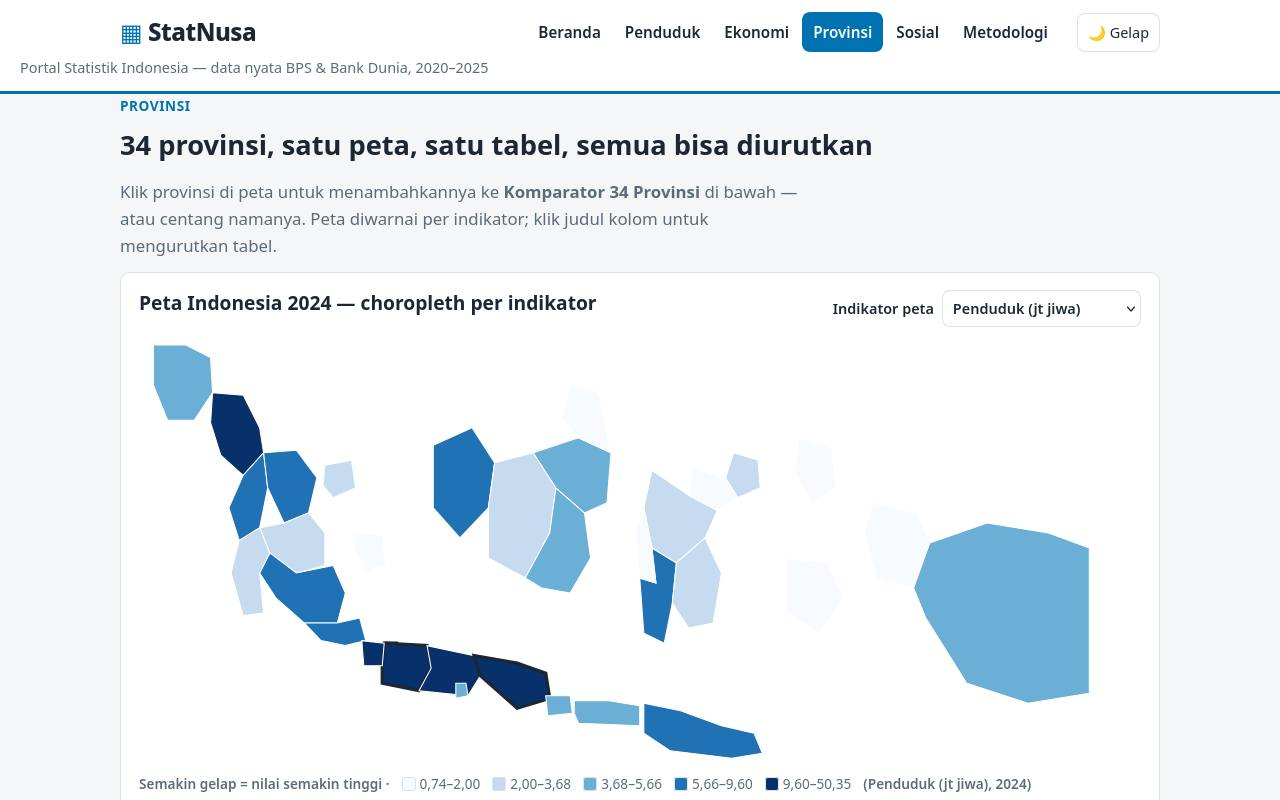
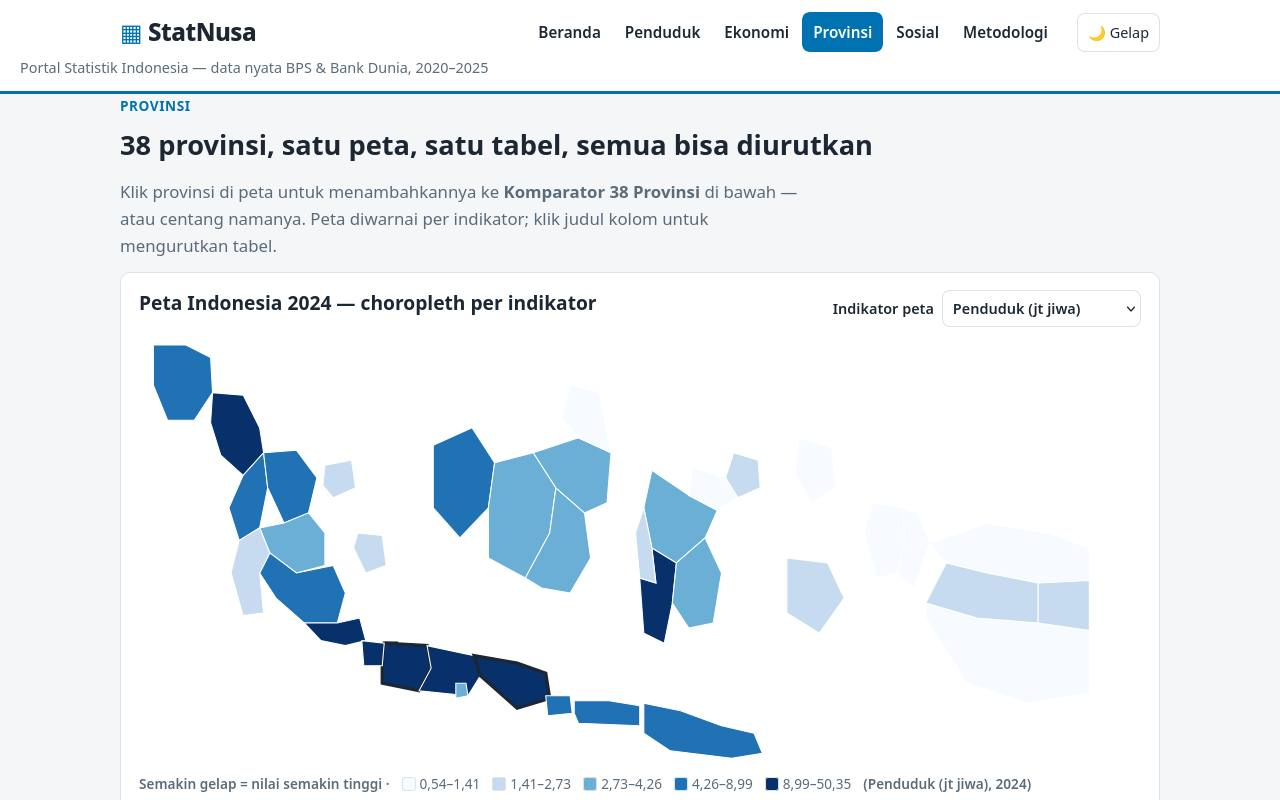
Entry

diff --git a/app/views.js b/app/views.js
@@ -81,7 +81,7 @@ window.StatViews = (function () {
     var surplus = D.trade[4].export - D.trade[4].import;
     return sectionHead("Portal Statistik Indonesia · Data BPS & Bank Dunia",
       "Indonesia dalam angka, 2020–2025",
-      "Satu portal untuk membaca Indonesia: <strong>" + fmt(NAT_POP_2024, 1) + " juta penduduk (BPS 2024)</strong> di <strong>34 provinsi</strong>, " +
+      "Satu portal untuk membaca Indonesia: <strong>" + fmt(NAT_POP_2024, 1) + " juta penduduk (BPS 2024)</strong> di <strong>38 provinsi</strong>, " +
       "ekonomi <strong>Rp22.139 triliun</strong>, dan <strong>6 tahun tren</strong> yang bisa dibandingkan — semua angka " +
       "disertai sumber dan tahunnya.") +
       kpiCards() +
@@ -92,11 +92,11 @@ window.StatViews = (function () {
       '<li><strong>' + fmt(jv.share, 1) + '% penduduk</strong> tinggal di Pulau Jawa — Jawa Barat sendiri ' + fmt(jb.jabar, 2) + ' juta jiwa (' + fmt(jb.share, 1) + '% nasional), lebih besar dari gabungan ' + jb.n + ' provinsi terkecil (' + fmt(jb.sum, 2) + ' jt). ' + srcTag("BPS 2024") + '</li>' +
       '<li><strong>Kemiskinan turun ' + fmt(povDrop, 2) + ' poin</strong> dalam empat tahun: dari ' + fmt(D.national.poverty[0], 2) + '% (Mar 2020) ke ' + fmt(D.national.poverty[4], 2) + '% (Mar 2024), lalu ' + fmt(D.national.poverty[5], 2) + '% (Mar 2025). ' + srcTag("BPS 2025") + '</li>' +
       '<li><strong>Surplus dagang 5 tahun beruntun:</strong> ekspor 2024 US$' + fmt(D.trade[4].export, 1) + ' miliar lawan impor US$' + fmt(D.trade[4].import, 1) + ' miliar (surplus US$' + fmt(surplus, 1) + ' miliar). ' + srcTag("BPS 2024") + '</li>' +
-      '</ol><p><a class="btn" href="#/provinsi">Bandingkan 34 provinsi →</a> <a class="btn ghost" href="#/ekonomi">Lihat ekonomi →</a></p></section>' +
+      '</ol><p><a class="btn" href="#/provinsi">Bandingkan 38 provinsi →</a> <a class="btn ghost" href="#/ekonomi">Lihat ekonomi →</a></p></section>' +
       '<section class="card"><h2>Jelajahi berdasarkan topik</h2><div class="topic-grid">' +
       '<a class="topic" href="#/penduduk"><strong>Penduduk &amp; Demografi</strong><span>Piramida penduduk 2024 + 10 provinsi terbesar</span></a>' +
       '<a class="topic" href="#/ekonomi"><strong>Ekonomi</strong><span>PDB per sektor, kuartal, ekspor-impor</span></a>' +
-      '<a class="topic" href="#/provinsi"><strong>Provinsi</strong><span>Tabel 34 provinsi + Komparator</span></a>' +
+      '<a class="topic" href="#/provinsi"><strong>Provinsi</strong><span>Tabel 38 provinsi + Komparator</span></a>' +
       '<a class="topic" href="#/sosial"><strong>Sosial</strong><span>Kemiskinan, pengangguran, IPM, pendidikan</span></a>' +
       '<a class="topic" href="#/metodologi"><strong>Metodologi &amp; Sumber</strong><span>Definisi, sumber, unduh CSV</span></a>' +
       '</div></section>';
@@ -184,8 +184,15 @@ window.StatViews = (function () {
       return '<tr><td>' + esc(ind2.label) + '</td>' + cells + '<td class="num">' + fmt(nat[ind2.key], ind2.decimals) + '</td></tr>';
     }).join("");
     var delta = selected.map(function (p) {
-      return '<tr><td>' + esc(p.name) + '</td><td class="num">' + fmt(p.pov2020, 2) + '</td><td class="num">' + fmt(p.pov, 2) + '</td><td class="num">' + fmt(p.pov - p.pov2020, 2) + '</td></tr>';
+      var v2020 = p.pov2020 == null ? "n/a" : fmt(p.pov2020, 2);
+      var chg = p.pov2020 == null ? "n/a" : fmt(p.pov - p.pov2020, 2);
+      return '<tr><td>' + esc(p.name) + '</td><td class="num">' + v2020 + '</td><td class="num">' + fmt(p.pov, 2) + '</td><td class="num">' + chg + '</td></tr>';
     }).join("");
+    var withHist = selected.filter(function (p) { return p.pov2020 != null; });
+    var deltaNote = withHist.length === selected.length
+      ? "Semua provinsi yang dipilih menurunkan kemiskinan sejak 2020 kecuali yang perubahannya positif. "
+      : "Provinsi hasil pemekaran 2022 (Papua, Papua Barat, Papua Selatan, Papua Tengah, Papua Pegunungan, Papua Barat Daya) tidak memiliki angka kemiskinan 2020 pada batas wilayah baru — ditampilkan n/a (belum diterbitkan BPS). " +
+        (withHist.length ? "Provinsi lain yang dipilih menurunkan kemiskinan sejak 2020 kecuali yang perubahannya positif. " : "");
     var chartItems = selected.map(function (p, i) { return { label: p.name, value: p[metric] }; });
     return '<table class="tbl"><thead>' + head + '</thead><tbody>' + body + '</tbody></table>' +
       '<p class="note">★ = nilai <strong>terbaik</strong> per indikator di antara provinsi yang dipilih — tertinggi untuk penduduk, PDRB per kapita, dan IPM; terendah untuk kemiskinan, pengangguran, dan inflasi. Kolom Nasional: PDB per kapita Rp78,6 jt; inflasi nasional 1,57%. ' + srcTag("BPS 2024") + '</p>' +
@@ -193,7 +200,7 @@ window.StatViews = (function () {
       C.hbarChart(chartItems, { decimals: ind.decimals, labelW: 170 }) +
       '<h3>Tren kemiskinan 2020 → 2024 (poin %)</h3>' +
       '<table class="tbl"><thead><tr><th>Provinsi</th><th class="num">2020</th><th class="num">2024</th><th class="num">Perubahan</th></tr></thead><tbody>' + delta + '</tbody></table>' +
-      '<p class="note">Semua provinsi yang dipilih menurunkan kemiskinan sejak 2020 kecuali yang perubahannya positif. ' + srcTag("BPS 2020 & 2024") + '</p>';
+      '<p class="note">' + deltaNote + srcTag("BPS 2020 & 2024") + '</p>';
   }
   function provinsi(state) {
     var q = (state.q || "").toLowerCase();
@@ -213,21 +220,21 @@ window.StatViews = (function () {
     var mapOpts = INDICATORS.map(function (ind) {
       return '<option value="' + ind.key + '"' + (ind.key === state.mapMetric ? ' selected' : '') + '>' + esc(ind.label) + '</option>';
     }).join("");
-    return sectionHead("Provinsi", "34 provinsi, satu peta, satu tabel, semua bisa diurutkan",
-      "Klik provinsi di peta untuk menambahkannya ke <strong>Komparator 34 Provinsi</strong> di bawah — " +
+    return sectionHead("Provinsi", "38 provinsi, satu peta, satu tabel, semua bisa diurutkan",
+      "Klik provinsi di peta untuk menambahkannya ke <strong>Komparator 38 Provinsi</strong> di bawah — " +
       "atau centang namanya. Peta diwarnai per indikator; klik judul kolom untuk mengurutkan tabel.") +
       '<section class="card" id="peta"><div class="card-head"><h2>Peta Indonesia 2024 — choropleth per indikator</h2>' +
       '<label class="map-ctl">Indikator peta <select id="map-metric">' + mapOpts + '</select></label></div>' +
       '<div id="map-wrap">' + window.StatMap.choropleth(state.mapMetric, state.selected) + '</div>' +
       '<p class="note">Klik provinsi di peta untuk menambah / menghapusnya dari Komparator (maks 4). Provinsi terpilih digaris tebal. ' + srcTag("BPS 2024") + '</p></section>' +
-      '<section class="card"><div class="card-head"><h2>Tabel 34 provinsi (2024)</h2>' +
+      '<section class="card"><div class="card-head"><h2>Tabel 38 provinsi (2024)</h2>' +
       '<label class="search">Cari provinsi <input id="prov-search" type="search" placeholder="mis. Jawa, Papua, Bali…" value="' + esc(state.q || "") + '" aria-label="Cari provinsi"></label></div>' +
       '<div class="tbl-wrap"><table class="tbl sortable"><thead><tr>' +
       th("name", "Provinsi") + th("pop", "Penduduk (jt)", "num") + th("pdrb", "PDRB/kapita (Rp jt)", "num") +
       th("pov", "Miskin (%)", "num") + th("unemp", "TPT (%)", "num") + th("ipm", "IPM", "num") + th("infl", "Inflasi (%)", "num") +
       '</tr></thead><tbody id="prov-body">' + provRows(list, state.sortKey, state.dir) + '</tbody></table></div>' +
-      '<p class="note" id="prov-count">' + list.length + ' dari 34 provinsi ditampilkan. Jumlah 34 provinsi di data: ' + fmt(provPopTotal(), 2) + ' jt; total nasional BPS 2024: ' + fmt(NAT_POP_2024, 1) + ' jt (selisih akibat pembulatan &amp; metode estimasi). ' + srcTag("BPS 2024") + '</p></section>' +
-      '<section class="card" id="komparator"><h2>Komparator 34 Provinsi</h2>' +
+      '<p class="note" id="prov-count">' + list.length + ' dari 38 provinsi ditampilkan. Jumlah 38 provinsi di data: ' + fmt(provPopTotal(), 2) + ' jt; total nasional BPS 2024: ' + fmt(NAT_POP_2024, 1) + ' jt (selisih akibat pembulatan &amp; metode estimasi). ' + srcTag("BPS 2024") + '</p></section>' +
+      '<section class="card" id="komparator"><h2>Komparator 38 Provinsi</h2>' +
       '<p>Sistem unik StatNusa: pilih 2–4 provinsi, bandingkan <strong>6 indikator sekaligus</strong> — penduduk, PDRB per kapita, kemiskinan, pengangguran, IPM, inflasi — plus tren kemiskinan 2020–2024.</p>' +
       '<div class="check-grid">' + checks + '</div>' +
       '<p class="comp-controls"><label>Indikator grafik <select id="comp-metric">' + opts + '</select></label> ' +
@@ -298,15 +305,16 @@ window.StatViews = (function () {
       '<dt>Kemiskinan</dt><dd>Penduduk dengan pengeluaran per kapita di bawah garis kemiskinan, diukur tiap Maret &amp; September.</dd>' +
       '<dt>IPM</dt><dd>Indeks Pembangunan Manusia (0–100): kesehatan, pendidikan, dan standar hidup layak.</dd>' +
       '<dt>PDRB per kapita</dt><dd>PDRB harga berlaku provinsi dibagi jumlah penduduknya, juta rupiah.</dd>' +
-      '<dt>Struktur provinsi</dt><dd>Tabel memakai 34 provinsi seperti publikasi BPS 2024; pemekaran Papua terbaru belum dipisah agar deret 2020–2024 sebanding.</dd>' +
+      '<dt>Struktur provinsi</dt><dd>Tabel memakai 38 provinsi hasil pemekaran Papua 2022 (UU No. 14–16/2022 tentang Papua Selatan, Papua Tengah, Papua Pegunungan; UU No. 29/2022 tentang Papua Barat Daya). Keenam provinsi Papua memakai angka BPS 2024 pada batas wilayah baru; kemiskinan 2020 tidak diterbitkan BPS untuk batas baru itu (n/a di Komparator).</dd>' +
       '</dl></section>' +
       '<section class="card"><h2>Unduh data (CSV)</h2><p>Semua angka di situs ini tersedia sebagai berkas lokal — tanpa akun, tanpa jaringan.</p><ul class="downloads">' +
       '<li><a href="data/nasional.csv" download>nasional.csv</a> — tren nasional 2020–2025 (penduduk, PDB, pertumbuhan, inflasi, TPT, kemiskinan, IPM)</li>' +
-      '<li><a href="data/provinsi.csv" download>provinsi.csv</a> — 34 provinsi × 6 indikator, 2024 + kemiskinan 2020</li>' +
+      '<li><a href="data/provinsi.csv" download>provinsi.csv</a> — 38 provinsi × 6 indikator, 2024 + kemiskinan 2020 (n/a untuk 6 provinsi Papua hasil pemekaran)</li>' +
       '<li><a href="data/ekonomi.csv" download>ekonomi.csv</a> — PDB per sektor 2024, pertumbuhan kuartalan, ekspor-impor 2020–2024</li>' +
       '</ul><p class="note">Berkas dibaca langsung dari folder situs; pengunduhan bekerja offline. ' + srcTag("BPS 2024–2025") + '</p></section>' +
       '<section class="card"><h2>Catatan &amp; batasan</h2><ul class="notes">' +
-      '<li>Angka provinsi dibulatkan ke 1–2 desimal dari publikasi BPS. Jumlah penduduk 34 provinsi di data ini: ' + fmt(provPopTotal(), 2) + ' jt, sedangkan total nasional BPS 2024: ' + fmt(NAT_POP_2024, 1) + ' jt — selisih ' + fmt(provPopTotal() - NAT_POP_2024, 2) + ' jt akibat pembulatan per provinsi dan perbedaan metode estimasi. Situs ini memakai ' + fmt(NAT_POP_2024, 1) + ' jt sebagai total nasional, dan ' + fmt(provPopTotal(), 2) + ' jt bila menjumlahkan tabel provinsi; keduanya diberi label yang berbeda supaya tidak tertukar.</li>' +
+      '<li>Angka provinsi dibulatkan ke 1–2 desimal dari publikasi BPS. Jumlah penduduk 38 provinsi di data ini: ' + fmt(provPopTotal(), 2) + ' jt, sedangkan total nasional BPS 2024: ' + fmt(NAT_POP_2024, 1) + ' jt — selisih ' + fmt(provPopTotal() - NAT_POP_2024, 2) + ' jt akibat pembulatan per provinsi dan perbedaan metode estimasi. Situs ini memakai ' + fmt(NAT_POP_2024, 1) + ' jt sebagai total nasional, dan ' + fmt(provPopTotal(), 2) + ' jt bila menjumlahkan tabel provinsi; keduanya diberi label yang berbeda supaya tidak tertukar.</li>' +
+      '<li>Enam provinsi Papua memakai angka BPS 2024 pada batas wilayah baru (penduduk proyeksi interim; PDRB per kapita 2024; kemiskinan Susenas Maret 2024; TPT Sakernas Agustus 2024; IPM BRS 15 November 2024; inflasi y-on-y BRS IHK 2 Januari 2025). Angka PDRB per kapita, IPM, dan inflasi 32 provinsi lainnya masih memakai vintage v1 (2023) dan belum dipanen ulang ke rilis BPS 2024 — lihat daftar sumber di atas untuk tahun tiap publikasi; pemanenan ulang 32 provinsi adalah pekerjaan lanjutan, bukan bagian v2b.</li>' +
       '<li>Angka 2025 untuk penduduk adalah proyeksi; seri PDB, inflasi, TPT, dan IPM berakhir 2024 karena publikasi 2025 belum lengkap saat situs disusun.</li>' +
       '<li>StatNusa adalah portal independen dan bukan situs resmi BPS; nama dan desainnya original.</li>' +
       '</ul></section>';

diff --git a/app/data.js b/app/data.js
@@ -2,6 +2,10 @@
    Sumber: Badan Pusat Statistik (BPS) dan Bank Dunia. Setiap angka memakai
    tahun rujukan sendiri; angka 2025 yang bertanda proyeksi berasal dari
    proyeksi penduduk BPS. Nilai provinsi dibulatkan dari publikasi BPS 2024.
+   38 provinsi: 4 provinsi pemekaran Papua (UU No. 14–16/2022) dan Papua
+   Barat Daya (UU No. 29/2022) memakai angka BPS 2024 pada batas wilayah
+   baru; kemiskinan 2020 (pov2020) tidak diterbitkan BPS untuk batas baru
+   itu, jadi bernilai null (ditampilkan "n/a" di Komparator).
    Semua angka tersimpan lokal — situs ini tidak memanggil jaringan. */
 window.STATNUSA = {
   meta: {
@@ -17,6 +21,12 @@ window.STATNUSA = {
     { name: "BPS — Keadaan Ketenagakerjaan Agustus 2024", year: 2024, url: "https://www.bps.go.id" },
     { name: "BPS — Indeks Pembangunan Manusia 2024", year: 2025, url: "https://www.bps.go.id" },
     { name: "BPS — Proyeksi Penduduk Indonesia 2020–2050", year: 2023, url: "https://www.bps.go.id" },
+    { name: "BPS — Statistik Indonesia 2025 (38 provinsi; proyeksi penduduk interim pertengahan 2024)", year: 2025, url: "https://www.bps.go.id" },
+    { name: "BPS — Indeks Pembangunan Manusia 2024 (BRS No. 85/11/Th. XXVII, 15 Nov 2024)", year: 2024, url: "https://www.bps.go.id" },
+    { name: "BPS — Data dan Informasi Kemiskinan Kabupaten/Kota 2024 (Susenas Maret 2024)", year: 2024, url: "https://www.bps.go.id" },
+    { name: "BPS — Perkembangan Indeks Harga Konsumen Desember 2024 (BRS No. 01/01/Th. XXVIII, 2 Jan 2025)", year: 2025, url: "https://www.bps.go.id" },
+    { name: "BPS — Keadaan Angkatan Kerja di Indonesia Agustus 2024 (TPT 38 provinsi)", year: 2024, url: "https://www.bps.go.id" },
+    { name: "BPS — [Seri 2010] PDRB Per Kapita (Ribu Rupiah), 2024", year: 2025, url: "https://www.bps.go.id" },
     { name: "Bank Dunia — World Development Indicators: Indonesia", year: 2025, url: "https://data.worldbank.org/country/indonesia" }
   ],
   years: [2020, 2021, 2022, 2023, 2024, 2025],
@@ -98,9 +108,15 @@ window.STATNUSA = {
     meanSchool: [8.72, 8.78, 8.89, 8.99, 9.08],
     expectedSchool: [12.98, 13.09, 13.10, 13.18, 13.34]
   },
-  /* 34 provinsi, struktur BPS 2024. pop = juta jiwa; pdrb = PDRB per kapita
-     juta rupiah; pov = kemiskinan % (Mar 2024); pov2020 = kemiskinan % (Mar 2020);
-     unemp = TPT % (Agu 2024); ipm = IPM 2024; infl = inflasi % (Des 2024). */
+  /* 38 provinsi, struktur BPS 2024 (pemekaran Papua 2022). pop = juta jiwa;
+     pdrb = PDRB per kapita juta rupiah; pov = kemiskinan % (Mar 2024);
+     pov2020 = kemiskinan % (Mar 2020) — null untuk 6 provinsi Papua karena
+     BPS tidak menerbitkan deret 2020 pada batas wilayah baru;
+     unemp = TPT % (Agu 2024); ipm = IPM 2024; infl = inflasi y-on-y % (Des 2024).
+     Enam baris Papua (2024, BPS): penduduk = proyeksi interim pertengahan
+     2024; PDRB per kapita = [Seri 2010] PDRB Per Kapita 2024; kemiskinan =
+     Susenas Mar 2024; TPT = Sakernas Agu 2024; IPM = BRS 15 Nov 2024;
+     inflasi = BRS IHK 2 Jan 2025. */
   provinces: [
     { name: "Aceh", pop: 5.55, pdrb: 62.1, pov: 14.23, pov2020: 15.43, unemp: 5.75, ipm: 74.12, infl: 1.9 },
     { name: "Sumatera Utara", pop: 15.80, pdrb: 65.4, pov: 8.25, pov2020: 8.75, unemp: 5.66, ipm: 75.48, infl: 1.7 },
@@ -134,7 +150,11 @@ window.STATNUSA = {
     { name: "Sulawesi Barat", pop: 1.59, pdrb: 44.7, pov: 10.64, pov2020: 11.25, unemp: 2.81, ipm: 70.10, infl: 2.0 },
     { name: "Maluku", pop: 2.00, pdrb: 42.6, pov: 16.17, pov2020: 17.84, unemp: 6.18, ipm: 71.76, infl: 2.6 },
     { name: "Maluku Utara", pop: 1.41, pdrb: 58.5, pov: 6.03, pov2020: 6.62, unemp: 3.99, ipm: 70.93, infl: 2.4 },
-    { name: "Papua Barat", pop: 1.28, pdrb: 80.5, pov: 20.24, pov2020: 20.76, unemp: 4.86, ipm: 67.02, infl: 2.8 },
-    { name: "Papua", pop: 4.46, pdrb: 55.4, pov: 25.61, pov2020: 26.64, unemp: 3.17, ipm: 60.97, infl: 2.7 }
+    { name: "Papua Barat", pop: 0.58, pdrb: 131.6, pov: 21.66, pov2020: null, unemp: 4.13, ipm: 67.69, infl: 2.5 },
+    { name: "Papua Barat Daya", pop: 0.63, pdrb: 59.1, pov: 18.13, pov2020: null, unemp: 6.48, ipm: 69.65, infl: 1.9 },
+    { name: "Papua", pop: 1.06, pdrb: 81.0, pov: 17.26, pov2020: null, unemp: 6.48, ipm: 73.83, infl: 1.8 },
+    { name: "Papua Selatan", pop: 0.54, pdrb: 61.6, pov: 17.44, pov2020: null, unemp: 4.05, ipm: 68.86, infl: 1.8 },
+    { name: "Papua Tengah", pop: 1.47, pdrb: 118.8, pov: 29.76, pov2020: null, unemp: 2.75, ipm: 60.25, infl: 3.3 },
+    { name: "Papua Pegunungan", pop: 1.47, pdrb: 18.1, pov: 32.97, pov2020: null, unemp: 1.32, ipm: 54.43, infl: 5.4 }
   ]
 };

diff --git a/app/map.js b/app/map.js
@@ -18,7 +18,11 @@ window.StatMap = (function () {
     return { key: key, label: key, decimals: 2, lowerBetter: false };
   }
 
-  /* [lon, lat] per provinsi — urutan sama dengan data.js (34 provinsi). */
+  /* [lon, lat] per provinsi — urutan sama dengan data.js (38 provinsi).
+     Papua dipecah 2022: Papua (pesisir utara) / Papua Tengah / Papua
+     Pegunungan / Papua Selatan; Papua Barat dipecah: Papua Barat (timur) /
+     Papua Barat Daya (kepala burung barat). Poligon berbagi titik batas
+     supaya ubinnya rapat tanpa celah besar. */
   var SHAPES = {
     "Aceh": [[95.2, 5.9], [96.8, 5.9], [98.0, 5.4], [98.1, 4.0], [97.2, 2.9], [95.9, 2.9], [95.2, 4.3]],
     "Sumatera Utara": [[98.1, 4.0], [99.6, 3.9], [100.4, 2.6], [100.6, 1.6], [99.6, 0.7], [98.5, 1.5], [98.0, 2.8]],
@@ -52,8 +56,12 @@ window.StatMap = (function () {
     "Sulawesi Barat": [[119.2, -0.6], [119.6, -2.2], [119.8, -3.6], [119.0, -3.4], [118.8, -1.6]],
     "Maluku": [[126.2, -2.6], [128.2, -2.8], [129.0, -4.2], [127.8, -5.6], [126.2, -4.8]],
     "Maluku Utara": [[126.8, 2.2], [128.4, 1.8], [128.6, 0.2], [127.4, -0.4], [126.6, 0.8]],
-    "Papua Barat": [[130.4, -0.4], [132.6, -0.8], [133.2, -2.0], [132.4, -3.8], [130.6, -3.4], [130.0, -1.6]],
-    "Papua": [[133.2, -2.0], [136.0, -1.2], [139.0, -1.6], [141.0, -2.2], [141.0, -8.0], [138.0, -8.4], [135.0, -7.6], [133.0, -5.0], [132.4, -3.8]]
+    "Papua Barat": [[131.8, -0.6], [132.6, -0.8], [133.2, -2.0], [132.4, -3.8], [131.6, -3.2], [132.0, -1.8]],
+    "Papua Barat Daya": [[130.4, -0.4], [131.8, -0.6], [132.0, -1.8], [131.6, -3.2], [130.6, -3.4], [130.0, -1.6]],
+    "Papua": [[134.0, -2.8], [136.0, -3.2], [138.5, -3.6], [141.0, -3.5], [141.0, -2.2], [139.0, -1.6], [136.0, -1.2], [133.2, -2.0]],
+    "Papua Selatan": [[133.0, -4.4], [135.5, -5.0], [138.5, -5.2], [141.0, -5.5], [141.0, -8.0], [138.0, -8.4], [135.0, -7.6], [133.0, -5.0]],
+    "Papua Tengah": [[134.0, -2.8], [136.0, -3.2], [138.5, -3.6], [138.5, -5.2], [135.5, -5.0], [133.0, -4.4]],
+    "Papua Pegunungan": [[138.5, -3.6], [141.0, -3.5], [141.0, -5.5], [138.5, -5.2]]
   };
 
   /* Skala sekuensial 5 tingkat, aman-buta-warna (ColorBrewer YlGnBu / YlOrBr). */
@@ -80,10 +88,13 @@ window.StatMap = (function () {
     var lo = Math.min.apply(null, vals), hi = Math.max.apply(null, vals);
     var ramp = meta.lowerBetter ? RAMP_HIGHER_BAD : RAMP_HIGHER_OK;
     /* Skala kuintil (bukan interval sama-rata): data provinsi sangat miring
-       (mis. penduduk 0,74–50,35 jt) — interval linear membuat 30 provinsi
-       nyaris putih. Kuintil menjamin tiap tingkat warna terisi ±7 provinsi. */
+       (mis. penduduk 0,54–50,35 jt) — interval linear membuat 30+ provinsi
+       nyaris putih. Kuintil menjamin tiap tingkat warna terisi ±8 provinsi.
+       Batas dihitung dari n (38 provinsi → indeks 7/15/22/30), bukan angka
+       mati, supaya skala tetap benar bila jumlah provinsi berubah. */
     var sorted = vals.slice().sort(function (a, b) { return a - b; });
-    var cuts = [sorted[6], sorted[13], sorted[20], sorted[27]];
+    var qi = function (f) { return sorted[Math.min(sorted.length - 1, Math.floor(sorted.length * f) - 1)]; };
+    var cuts = [qi(0.2), qi(0.4), qi(0.6), qi(0.8)];
     function color(v) {
       var k = 0;
       while (k < 4 && v > cuts[k]) k++;

diff --git a/app/index.html b/app/index.html
@@ -3,8 +3,8 @@
 <head>
 <meta charset="utf-8">
 <meta name="viewport" content="width=device-width, initial-scale=1">
-<meta name="description" content="StatNusa — Portal Statistik Indonesia: 281,6 juta penduduk, 34 provinsi, 6 tahun tren 2020–2025, dengan Komparator 34 Provinsi. Data BPS & Bank Dunia.">
-<title>StatNusa — Statistik Indonesia 2025: 281,6 Juta Penduduk, 34 Provinsi, 6 Tahun Tren</title>
+<meta name="description" content="StatNusa — Portal Statistik Indonesia: 281,6 juta penduduk, 38 provinsi, 6 tahun tren 2020–2025, dengan Komparator 38 Provinsi. Data BPS & Bank Dunia.">
+<title>StatNusa — Statistik Indonesia 2025: 281,6 Juta Penduduk, 38 Provinsi, Peta + Komparator, 6 Tahun Tren</title>
 <link rel="stylesheet" href="style.css">
 <script src="data.js"></script>
 <script src="charts.js"></script>
@@ -31,7 +31,7 @@
 <main id="app" class="wrap"></main>
 <footer class="wrap">
   <p>StatNusa — portal independen, bukan situs resmi BPS. Data: BPS &amp; Bank Dunia (2020–2025). Semua berkas tersimpan lokal; situs ini tidak memanggil jaringan.</p>
-  <p><a href="#/metodologi">Metodologi &amp; sumber</a> · <a href="#/provinsi">Komparator 34 Provinsi</a> · Diperbarui 26 November 2026</p>
+  <p><a href="#/metodologi">Metodologi &amp; sumber</a> · <a href="#/provinsi">Komparator 38 Provinsi</a> · Diperbarui 26 November 2026</p>
 </footer>
 </body>
 </html>

diff --git a/app/main.js b/app/main.js
@@ -15,10 +15,10 @@
   };
 
   var TITLES = {
-    "/": "StatNusa — Statistik Indonesia 2025: 281,6 Juta Penduduk, 34 Provinsi, 6 Tahun Tren",
+    "/": "StatNusa — Statistik Indonesia 2025: 281,6 Juta Penduduk, 38 Provinsi, Peta + Komparator, 6 Tahun Tren",
     "/penduduk": "Penduduk & Demografi | StatNusa",
     "/ekonomi": "Ekonomi | StatNusa",
-    "/provinsi": "Provinsi & Komparator 34 Provinsi | StatNusa",
+    "/provinsi": "Provinsi & Komparator 38 Provinsi | StatNusa",
     "/sosial": "Sosial | StatNusa",
     "/metodologi": "Metodologi & Sumber | StatNusa"
   };
@@ -87,7 +87,7 @@
             '<td class="num">' + p.ipm.toFixed(2) + '</td><td class="num">' + p.infl.toFixed(1) + "</td></tr>";
         }).join("");
         var totalProv = D.provinces.reduce(function (a, p) { return a + p.pop; }, 0);
-        count.textContent = list.length + " dari 34 provinsi ditampilkan. Jumlah 34 provinsi di data: " +
+        count.textContent = list.length + " dari 38 provinsi ditampilkan. Jumlah 38 provinsi di data: " +
           totalProv.toFixed(2).replace(".", ",") + " jt; total nasional BPS 2024: 281,6 jt (selisih akibat pembulatan & metode estimasi). Sumber: BPS 2024.";
       }
       function refreshMap() {

diff --git a/main.ts b/main.ts
@@ -5,8 +5,8 @@
 // first load's files and bytes, and your source), with the vendored make.fun library. Leave vendor/makefun-frontend.ts
 // as it is: the scorer requires dossier.json to be byte for byte what its own copy writes.
 //
-// StatNusa v1 — Portal Statistik Indonesia: 281,6 juta penduduk, 34 provinsi,
-// 6 tahun tren 2020–2025, dan Komparator 34 Provinsi. Data nyata BPS & Bank Dunia,
+// StatNusa v2b — Portal Statistik Indonesia: 281,6 juta penduduk, 38 provinsi,
+// 6 tahun tren 2020–2025, dan Komparator 38 Provinsi + peta choropleth. Data nyata BPS & Bank Dunia,
 // tersimpan lokal di app/data.js + app/data/*.csv; grafik digambar sendiri (SVG)
 // di app/charts.js, tanpa library eksternal dan tanpa network request.
 //

diff --git a/README.md b/README.md
@@ -1,15 +1,18 @@
-# StatNusa — Portal Statistik Indonesia (v2)
+# StatNusa — Portal Statistik Indonesia (v2b)
 
-**Judul submit:** "StatNusa — Statistik Indonesia 2025: 281,6 Juta Penduduk, 34 Provinsi, 6 Tahun Tren dalam Satu Portal"
+**Judul submit:** "StatNusa — Statistik Indonesia 2025: 281,6 Juta Penduduk, 38 Provinsi, Peta + Komparator, 6 Tahun Tren"
 
 Portal statistik satu negara (Indonesia) dengan data nyata BPS & Bank Dunia, 2020–2025.
-Sistem unik: **Komparator 34 Provinsi** — pilih 2–4 provinsi, bandingkan 6 indikator
+Sistem unik: **Komparator 38 Provinsi** — pilih 2–4 provinsi, bandingkan 6 indikator
 (penduduk, PDRB per kapita, kemiskinan, pengangguran, IPM, inflasi) + tren kemiskinan 2020–2024.
 **Baru di v2: Peta choropleth Indonesia interaktif** — 6 indikator, skala kuintil,
 klik provinsi untuk menambahkannya ke Komparator.
+**Baru di v2b: 38 provinsi** — 4 provinsi pemekaran Papua 2022 (Papua Selatan,
+Papua Tengah, Papua Pegunungan, Papua Barat Daya) + Papua Barat disesuaikan;
+semua angka BPS 2024 pada batas wilayah baru.
 
 ![Beranda — 6 KPI + tren nasional utuh](screenshots/1-beranda.jpg)
-![Provinsi — peta choropleth Indonesia + tabel 34 provinsi](screenshots/2-provinsi-peta.jpg)
+![Provinsi — peta choropleth Indonesia + tabel 38 provinsi](screenshots/2-provinsi-peta.jpg)
 ![Penduduk — tren + piramida + 10 provinsi terbesar](screenshots/3-penduduk.jpg)
 ![Beranda di phone 390×844](screenshots/4-beranda-phone.jpg)
 
@@ -18,7 +21,7 @@ klik provinsi untuk menambahkannya ke Komparator.
 1. **Beranda** — 6 KPI cards + grafik tren nasional dengan pemilih indikator.
 2. **Penduduk & Demografi** — tren 2020–2025, piramida penduduk 2024, 10 provinsi terbesar.
 3. **Ekonomi** — PDB per sektor, pertumbuhan per kuartal, ekspor vs impor + neraca.
-4. **Provinsi** — peta choropleth interaktif + tabel 34 provinsi (sortable + pencarian) + Komparator multi-provinsi.
+4. **Provinsi** — peta choropleth interaktif + tabel 38 provinsi (sortable + pencarian) + Komparator multi-provinsi.
 5. **Sosial** — kemiskinan, pengangguran, IPM, pendidikan, kota vs desa, provinsi ekstrem.
 6. **Metodologi & Sumber** — sumber + tahun tiap angka, definisi, unduh CSV lokal.
 
@@ -31,7 +34,7 @@ klik provinsi untuk menambahkannya ke Komparator.
 - Semua angka narasi dihitung dari `app/data.js` saat runtime (lihat `app/views.js`:
   `provPopTotal`, `top10Prov`, `javaShare`, `jabarVsSmallest`, `povertyCount`) — tidak
   ada angka narasi hardcoded. Dua angka penduduk dibedakan eksplisit: **281,6 jt**
-  (total nasional BPS 2024) vs **283,87 jt** (jumlah 34 provinsi di data).
+  (total nasional BPS 2024) vs **283,88 jt** (jumlah 38 provinsi di data).
 - Tema terang/gelap tersimpan lokal; responsif (desktop 1280×800 & phone 390×844).
 
 ## Jalankan
@@ -47,31 +50,61 @@ MAKEFUN_OUTPUT_DIR=out node main.ts   # tulis dossier.json
 BPS (Statistik Indonesia 2025, BRS Pertumbuhan Ekonomi, Profil Kemiskinan, Keadaan
 Ketenagakerjaan, IPM, Proyeksi Penduduk) dan Bank Dunia WDI. Berkas mentah:
 `app/data/nasional.csv`, `app/data/provinsi.csv`, `app/data/ekonomi.csv`.
-Struktur 34 provinsi mengikuti publikasi BPS 2024 agar deret 2020–2024 sebanding.
+Struktur 38 provinsi mengikuti pemekaran Papua 2022 (UU No. 14–16/2022, UU No. 29/2022).
+Sumber 6 provinsi Papua (2024, BPS): penduduk — proyeksi interim pertengahan 2024;
+PDRB per kapita — [Seri 2010] PDRB Per Kapita 2024; kemiskinan — Susenas Maret 2024
+(Data dan Informasi Kemiskinan Kabupaten/Kota 2024); TPT — Sakernas Agustus 2024;
+IPM — BRS No. 85/11/Th. XXVII, 15 Nov 2024; inflasi — BRS IHK Desember 2024
+(No. 01/01/Th. XXVIII, 2 Jan 2025).
 
-## Verifikasi (v2)
+## Verifikasi (v2b)
 
-- `node tools/verify.mjs` — **40/40 PASS** (log lengkap: `tools/verify-v2.log`):
+- `node tools/verify.mjs` — **51/51 PASS** (log lengkap: `tools/verify-v2b.log`):
   6 rute + overflow desktop/phone, 0 request eksternal, 0 error, pemilih tren,
-  cari/sort Komparator, sort tanpa scroll ke atas, peta 34 provinsi + legenda +
-  ganti indikator + klik provinsi → Komparator, angka narasi = hitung data.js,
-  4 screenshot ≤256 KiB.
+  cari/sort Komparator, sort tanpa scroll ke atas, peta 38 provinsi + legenda +
+  ganti indikator + klik provinsi → Komparator (termasuk klik Papua Tengah),
+  n/a kemiskinan 2020 di Komparator, assert kualitas data 6 dimensi
+  (completeness/uniqueness/validity/consistency/accuracy/freshness; CSV ==
+  data.js; peta == data), angka narasi = hitung data.js, 4 screenshot ≤256 KiB.
 - Tes grader 2× sebagai `nobody` (salinan /tmp, output milik root mode 777):
-  exit 0 + dossier byte-identik — lihat build log v2.
+  exit 0 + dossier byte-identik — lihat build log v2b.
 
-## Known issues (v2)
+## Known issues (v2b)
 
 - Poligon peta disederhanakan (4–8 titik per provinsi): batas antar-provinsi tidak
   presisi survei; bentuk kepulauan dipertahankan supaya terbaca sebagai Indonesia.
   DKI Jakarta digambar sedikit diperbesar agar bisa diklik.
-- Peta memakai skala kuintil (tiap tingkat ±7 provinsi), bukan interval linear —
+- Peta memakai skala kuintil (tiap tingkat ±8 provinsi), bukan interval linear —
   dua provinsi dengan nilai berdekatan bisa beda warna bila melewati batas kuintil;
   legenda selalu menampilkan rentang tiap tingkat.
 - Angka 2025 untuk penduduk adalah proyeksi; seri PDB, inflasi, TPT, dan IPM
   berakhir 2024 karena publikasi 2025 belum lengkap saat situs disusun.
+- **Batas shot 4 vs cakupan 6 section (konflik aturan, didokumentasikan):** aturan
+  kompetisi membatasi `screenshots/` ke 3–4 gambar, jadi hanya 4 rute yang bisa
+  difoto sebagai shot submit (Beranda, Provinsi+peta, Penduduk, Beranda phone).
+  Ekonomi, Sosial, dan Metodologi tetap diverifikasi lewat cek rute/kontrol di
+  `tools/verify.mjs` + screenshot sementara di /tmp saat build, bukan sebagai shot.
+- **Vintage split (diketahui, bukan disembunyikan):** angka PDRB per kapita, IPM,
+  dan inflasi 32 provinsi lainnya masih memakai vintage v1 (seri lama, efektif
+  2023); hanya 6 provinsi Papua yang memakai rilis BPS 2024. Pemanenan ulang
+  32 provinsi ke satu vintage adalah pekerjaan lanjutan — lihat Metodologi.
+- **Kemiskinan 2020 n/a untuk 6 provinsi Papua:** BPS tidak menerbitkan deret
+  2020 pada batas wilayah baru hasil pemekaran 2022; Komparator menampilkan
+  "n/a (belum diterbitkan BPS)" untuk sel 2020 & perubahan provinsi tersebut.
 
 ## Changelog
 
+- **v2b** — 38 provinsi: 4 provinsi pemekaran Papua 2022 ditambah (Papua Selatan,
+  Papua Tengah, Papua Pegunungan, Papua Barat Daya) + Papua Barat disesuaikan,
+  semua angka BPS 2024 (penduduk proyeksi interim; PDRB per kapita; kemiskinan
+  Susenas Mar 2024; TPT Sakernas Agu 2024; IPM BRS Nov 2024; inflasi BRS IHK
+  Jan 2025); peta dipecah jadi 6 poligon Papua dengan batas berbagi titik;
+  skala kuintil digeneralisasi ke n (batas dari jumlah provinsi, bukan angka
+  mati); angka narasi dihitung ulang dari 38 provinsi (Σ 283,88 jt; klaim Jabar
+  "23 provinsi terkecil (50,19 jt)"; ekstrem baru Papua Pegunungan: miskin
+  32,97%, IPM 54,43, TPT 1,32%); kemiskinan 2020 = n/a untuk 6 provinsi Papua;
+  assert kualitas data di verify (completeness/uniqueness/validity/consistency/
+  accuracy/freshness; CSV == data.js; peta == data).
 - **v2** — peta choropleth Indonesia interaktif (klik → Komparator, 6 indikator,
   skala kuintil + legenda); SEMUA angka narasi dihitung dari data.js (perbaiki 4
   angka salah v1: total provinsi 283,87 jt; top-10 205,04 jt / 72,8%; klaim Jabar
